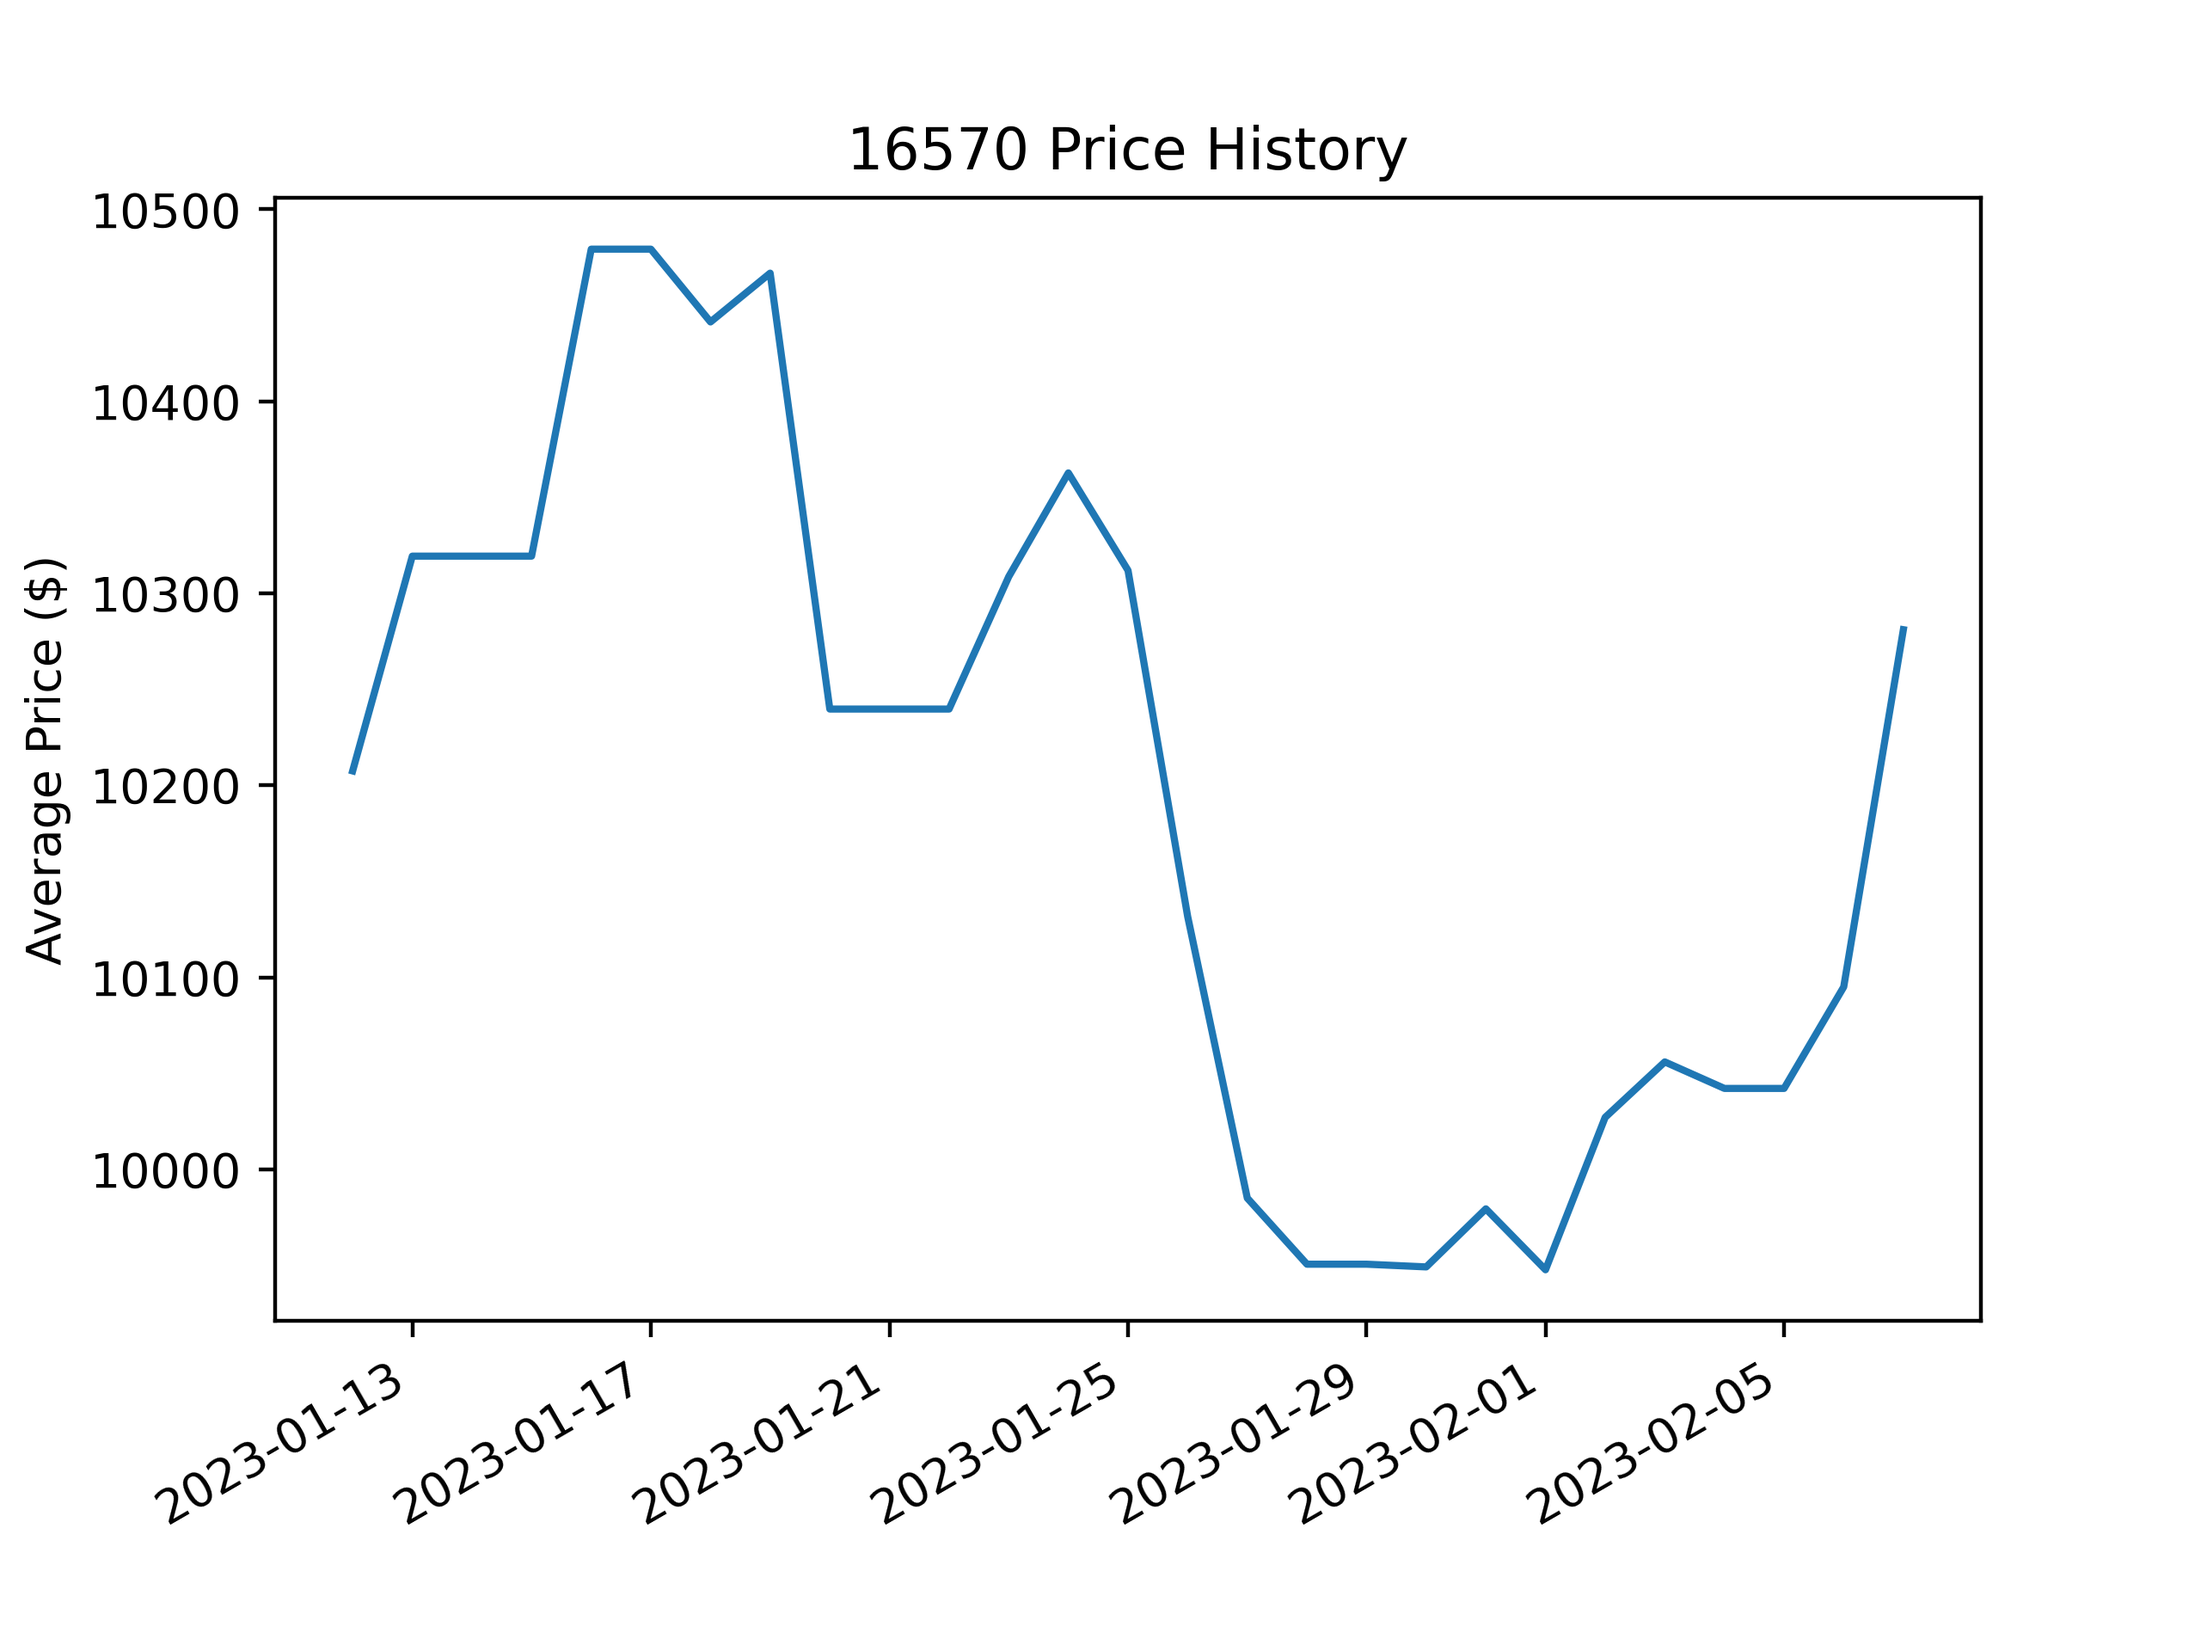
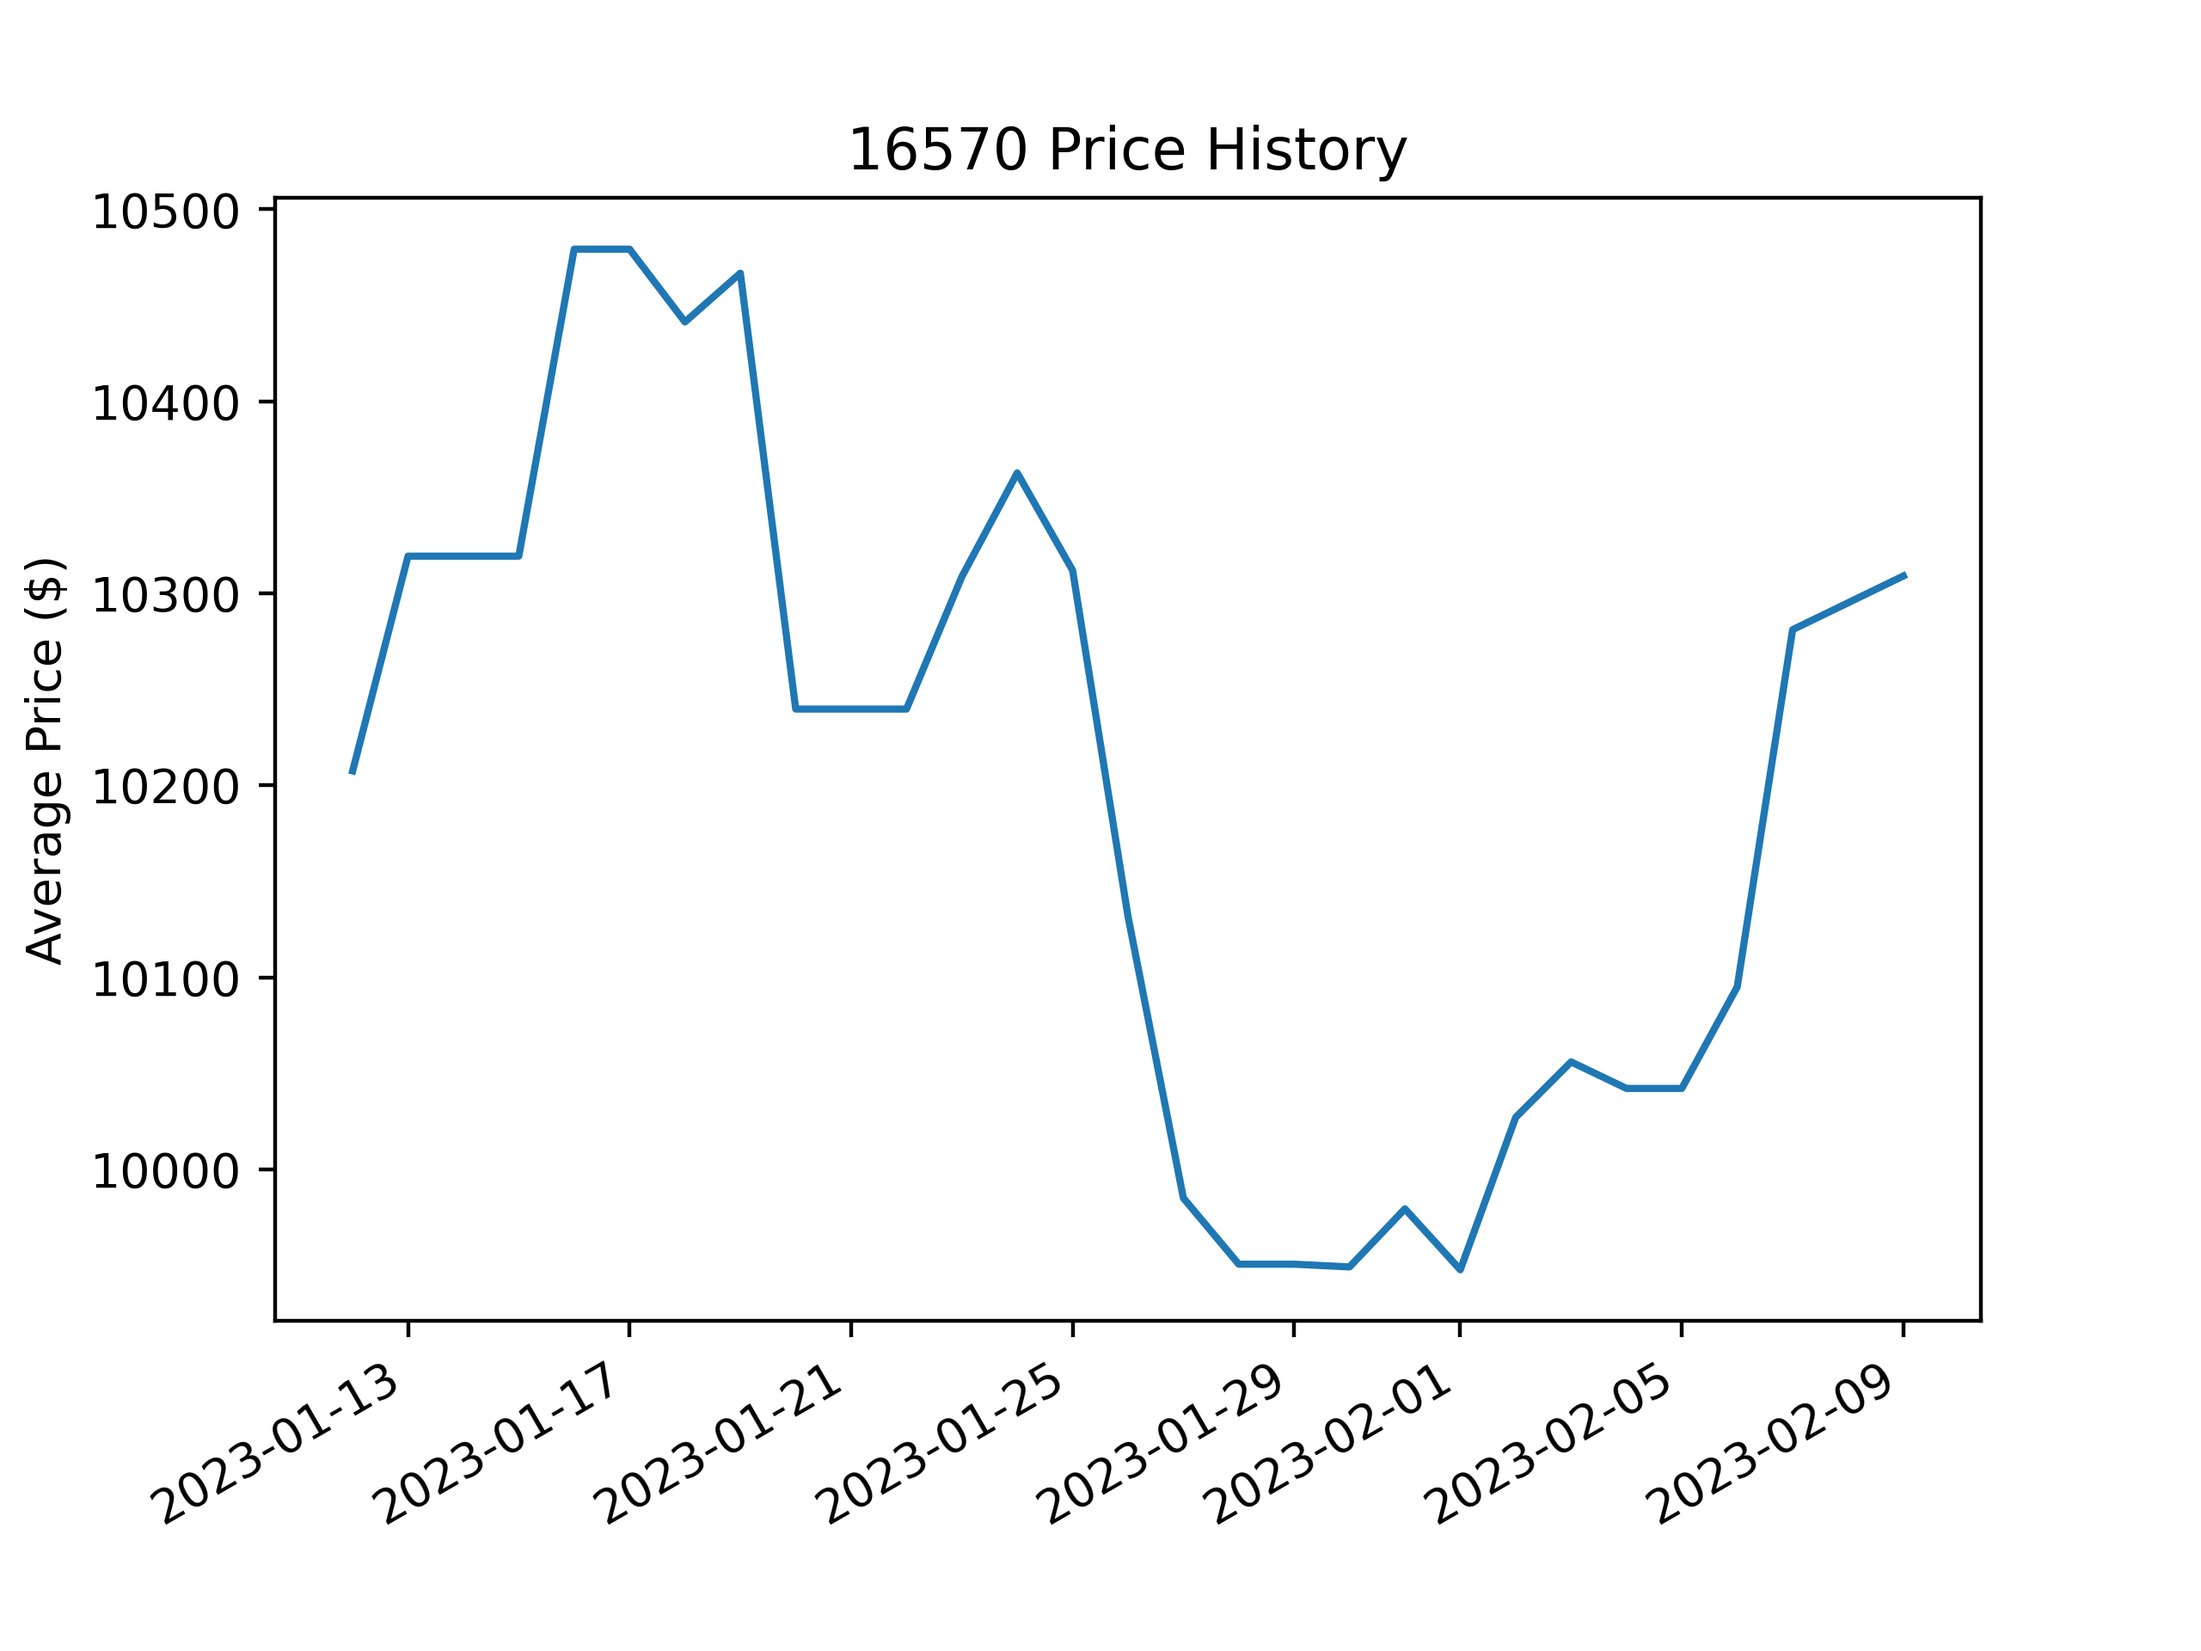
today's prices

diff --git a/all-prices/16570.html b/all-prices/16570.html
@@ -1,1 +1,1 @@
-<!DOCTYPE html><html><body><h1>All listings sorted in ascending order by price</h1><div> <a href="https://www.watchfinder.com/Rolex/Explorer II/16570/1780/item/234124" target="_blank" rel="noopener noreferrer">$8745</a> </div><div> <a href="https://www.watchfinder.com/Rolex/Explorer II/16570/1780/item/230008" target="_blank" rel="noopener noreferrer">$9070</a> </div><div> <a href="https://www.watchfinder.com/Rolex/Explorer II/16570/1780/item/236074" target="_blank" rel="noopener noreferrer">$9195</a> </div><div> <a href="https://www.crownandcaliber.com/products/rolex-explorer-ii-16570-10-10-rol-dt7ba1" target="_blank" rel="noopener noreferrer">$9225</a> </div><div> <a href="https://davidsw.com/shop/watch/rolex/rolex-16570-explorer-ii-with-white-dial-80/" target="_blank" rel="noopener noreferrer">$9275.0</a> </div><div> <a href="https://www.watchfinder.com/Rolex/Explorer II/16570/1780/item/232242" target="_blank" rel="noopener noreferrer">$9365</a> </div><div> <a href="https://www.thewatchbox.com/shop/4652947.html" target="_blank" rel="noopener noreferrer">$9450</a> </div><div> <a href="https://www.crownandcaliber.com/products/rolex-explorer-ii-16570-10-10-rol-t6d7yb" target="_blank" rel="noopener noreferrer">$9600</a> </div><div> <a href="https://www.crownandcaliber.com/products/rolex-explorer-ii-16570-10-10-rol-9mvdkh" target="_blank" rel="noopener noreferrer">$9600</a> </div><div> <a href="https://www.crownandcaliber.com/products/rolex-explorer-ii-16570-10-10-rol-ngl42x" target="_blank" rel="noopener noreferrer">$9750</a> </div><div> <a href="https://www.crownandcaliber.com/products/rolex-explorer-ii-16570-10-10-rol-rcg6ap" target="_blank" rel="noopener noreferrer">$9750</a> </div><div> <a href="https://aiswatches.com/rolex-polar-explorer-ii-16570-p-serial-white-dial-box-papers-rsc-serviced/" target="_blank" rel="noopener noreferrer">$9775.0</a> </div><div> <a href="https://aiswatches.com/rolex-polar-explorer-ii-16570-y-serial-white-dial-box-paper-1/" target="_blank" rel="noopener noreferrer">$9775.0</a> </div><div> <a href="https://mandbwatches.com/product/rolex-explorer-ii-40mm-16570-stainless-steel-polar-white-dial-w-papers-unpolished/" target="_blank" rel="noopener noreferrer">$9950.0</a> </div><div> <a href="https://www.crownandcaliber.com/products/rolex-explorer-ii-16570-10-10-rol-xm8dgq" target="_blank" rel="noopener noreferrer">$10150</a> </div><div> <a href="https://www.watchfinder.com/Rolex/Explorer II/16570/1780/item/233065" target="_blank" rel="noopener noreferrer">$10530</a> </div><div> <a href="https://www.watchfinder.com/Rolex/Explorer II/16570/1780/item/238999" target="_blank" rel="noopener noreferrer">$10610</a> </div><div> <a href="https://www.watchfinder.com/Rolex/Explorer II/16570/1780/item/230050" target="_blank" rel="noopener noreferrer">$10680</a> </div><div> <a href="https://aiswatches.com/rolex-polar-explorer-ii-16570-v-serial-white-dial-3186-movement-box-papers/" target="_blank" rel="noopener noreferrer">$10975.0</a> </div><div> <a href="https://aiswatches.com/rolex-polar-explorer-ii-16570-m-serial-white-dial-3186-movement-box-papers/" target="_blank" rel="noopener noreferrer">$10975.0</a> </div><div> <a href="https://www.watchfinder.com/Rolex/Explorer II/16570/1780/item/239520" target="_blank" rel="noopener noreferrer">$11030</a> </div><div> <a href="https://www.watchfinder.com/Rolex/Explorer II/16570/1780/item/216068" target="_blank" rel="noopener noreferrer">$11030</a> </div><div> <a href="https://www.watchfinder.com/Rolex/Explorer II/16570/1780/item/231123" target="_blank" rel="noopener noreferrer">$11060</a> </div><div> <a href="https://www.watchfinder.com/Rolex/Explorer II/16570/1780/item/235967" target="_blank" rel="noopener noreferrer">$11235</a> </div><div> <a href="https://www.bobswatches.com//rolex-explorer-ii-16570-white-dial-watch.html" target="_blank" rel="noopener noreferrer">$11295</a> </div><div> <a href="https://www.watchfinder.com/Rolex/Explorer II/16570/1780/item/238727" target="_blank" rel="noopener noreferrer">$11550</a> </div><div> <a href="https://www.watchfinder.com/Rolex/Explorer II/16570/1780/item/229673" target="_blank" rel="noopener noreferrer">$11550</a> </div><div> <a href="https://davidsw.com/shop/watch/rolex/rolex-16570-explorer-ii-with-white-dial-86/" target="_blank" rel="noopener noreferrer">$12675.0</a> </div></body></html>
+<!DOCTYPE html><html><body><h1>All listings sorted in ascending order by price</h1><div> <a href="https://www.watchfinder.com/Rolex/Explorer II/16570/1780/item/234124" target="_blank" rel="noopener noreferrer">$8745</a> </div><div> <a href="https://www.watchfinder.com/Rolex/Explorer II/16570/1780/item/230008" target="_blank" rel="noopener noreferrer">$9070</a> </div><div> <a href="https://www.watchfinder.com/Rolex/Explorer II/16570/1780/item/236074" target="_blank" rel="noopener noreferrer">$9195</a> </div><div> <a href="https://davidsw.com/shop/watch/rolex/rolex-16570-explorer-ii-with-white-dial-80/" target="_blank" rel="noopener noreferrer">$9275.0</a> </div><div> <a href="https://www.watchfinder.com/Rolex/Explorer II/16570/1780/item/232242" target="_blank" rel="noopener noreferrer">$9365</a> </div><div> <a href="https://www.thewatchbox.com/shop/4652947.html" target="_blank" rel="noopener noreferrer">$9450</a> </div><div> <a href="https://www.crownandcaliber.com/products/rolex-explorer-ii-16570-10-10-rol-t6d7yb" target="_blank" rel="noopener noreferrer">$9600</a> </div><div> <a href="https://www.crownandcaliber.com/products/rolex-explorer-ii-16570-10-10-rol-mg7xp9" target="_blank" rel="noopener noreferrer">$9600</a> </div><div> <a href="https://www.crownandcaliber.com/products/rolex-explorer-ii-16570-10-10-rol-ngl42x" target="_blank" rel="noopener noreferrer">$9750</a> </div><div> <a href="https://www.crownandcaliber.com/products/rolex-explorer-ii-16570-10-10-rol-rcg6ap" target="_blank" rel="noopener noreferrer">$9750</a> </div><div> <a href="https://aiswatches.com/rolex-polar-explorer-ii-16570-p-serial-white-dial-box-papers-rsc-serviced/" target="_blank" rel="noopener noreferrer">$9775.0</a> </div><div> <a href="https://aiswatches.com/rolex-polar-explorer-ii-16570-y-serial-white-dial-box-paper-1/" target="_blank" rel="noopener noreferrer">$9775.0</a> </div><div> <a href="https://mandbwatches.com/product/rolex-explorer-ii-40mm-16570-stainless-steel-polar-white-dial-w-papers-unpolished/" target="_blank" rel="noopener noreferrer">$9950.0</a> </div><div> <a href="https://www.crownandcaliber.com/products/rolex-explorer-ii-16570-10-10-rol-xm8dgq" target="_blank" rel="noopener noreferrer">$10150</a> </div><div> <a href="https://www.watchfinder.com/Rolex/Explorer II/16570/1780/item/233065" target="_blank" rel="noopener noreferrer">$10530</a> </div><div> <a href="https://www.watchfinder.com/Rolex/Explorer II/16570/1780/item/230050" target="_blank" rel="noopener noreferrer">$10680</a> </div><div> <a href="https://aiswatches.com/rolex-polar-explorer-ii-16570-v-serial-white-dial-3186-movement-box-papers/" target="_blank" rel="noopener noreferrer">$10975.0</a> </div><div> <a href="https://aiswatches.com/rolex-polar-explorer-ii-16570-m-serial-white-dial-3186-movement-box-papers/" target="_blank" rel="noopener noreferrer">$10975.0</a> </div><div> <a href="https://www.watchfinder.com/Rolex/Explorer II/16570/1780/item/239520" target="_blank" rel="noopener noreferrer">$11030</a> </div><div> <a href="https://www.watchfinder.com/Rolex/Explorer II/16570/1780/item/216068" target="_blank" rel="noopener noreferrer">$11030</a> </div><div> <a href="https://www.watchfinder.com/Rolex/Explorer II/16570/1780/item/231123" target="_blank" rel="noopener noreferrer">$11060</a> </div><div> <a href="https://www.watchfinder.com/Rolex/Explorer II/16570/1780/item/235967" target="_blank" rel="noopener noreferrer">$11235</a> </div><div> <a href="https://www.bobswatches.com//rolex-explorer-ii-16570-white-dial-watch.html" target="_blank" rel="noopener noreferrer">$11295</a> </div><div> <a href="https://www.watchfinder.com/Rolex/Explorer II/16570/1780/item/238727" target="_blank" rel="noopener noreferrer">$11550</a> </div><div> <a href="https://www.watchfinder.com/Rolex/Explorer II/16570/1780/item/229673" target="_blank" rel="noopener noreferrer">$11550</a> </div><div> <a href="https://davidsw.com/shop/watch/rolex/rolex-16570-explorer-ii-with-white-dial-86/" target="_blank" rel="noopener noreferrer">$12675.0</a> </div></body></html>
